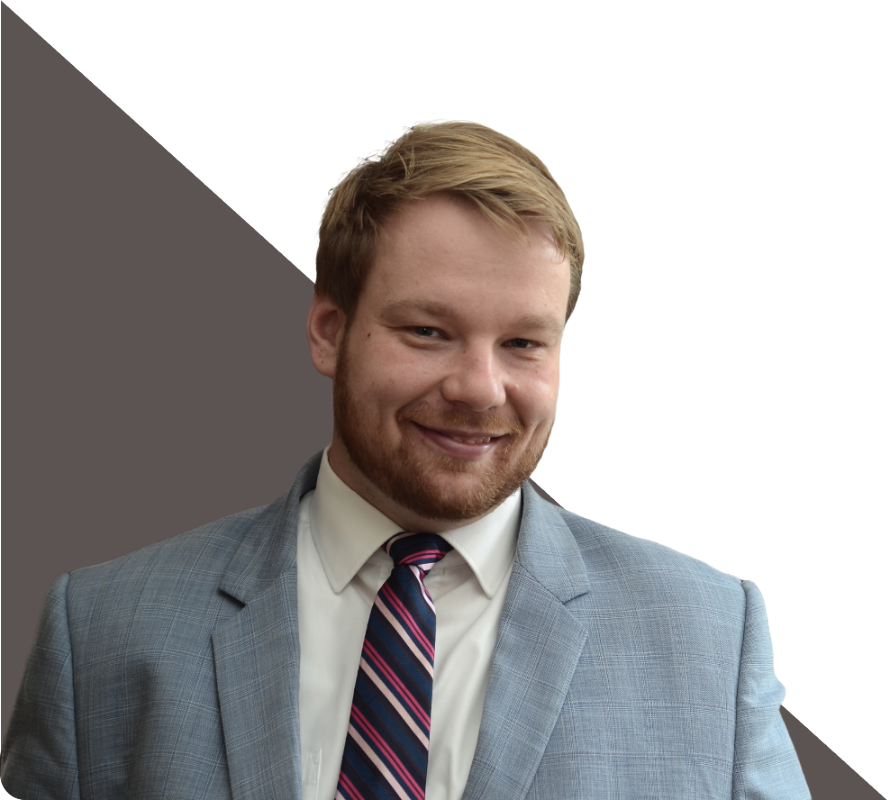
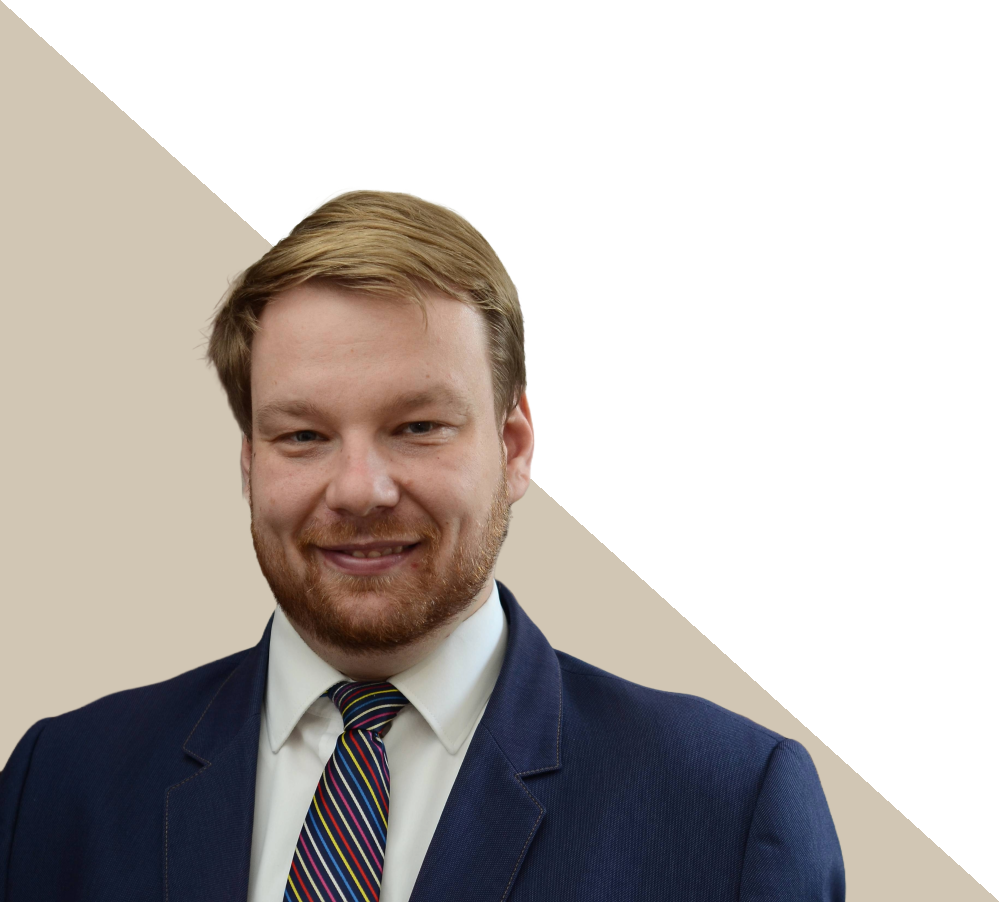
.

diff --git a/style.css b/style.css
@@ -105,6 +105,7 @@ header .logo img {
 .close-nav {
   text-align: right;
   margin-bottom: 20px;
+  margin-top: 20px;
 }
 .close-nav button {
   all: unset;
@@ -190,19 +191,32 @@ header .logo img {
     background-repeat: no-repeat;
     background-position: left bottom;
     background-size: 50%;
-    /*-webkit-box-shadow: 10px 10px 31px 0px rgba(0,0,0,0.75); 
--moz-box-shadow: 10px 10px 31px 0px rgba(0,0,0,0.75);*/
+    -webkit-box-shadow: 10px 10px 31px 0px rgba(0,0,0,0.75); 
+-moz-box-shadow: 10px 10px 31px 0px rgba(0,0,0,0.75);
 box-shadow: 10px 10px 40px 10px rgba(0,0,0,0.75);
 }
 
 
 @media (max-width: 1000px) {
 .header{
-  background-size: 100%;
-}
+  background-size: 70%;
+  align-items: center;
+  justify-content: flex-start;
+  height: 60vh;
 }
 
-@media (max-width: 600px;) {
+.header > img{
+  width: 100%;;
+
+}
+main{
+  margin: 0;
+}
+
+
+}
+
+@media (max-width: 600px) {
   .header{
     height: 600px;
   }
@@ -250,6 +264,33 @@ footer {
     align-items: center;
     flex-wrap: wrap;
 }
+
+@media (max-width: 600px) {
+  footer{
+    display: block;
+    padding-left: 50px;
+  }
+
+  footer .material-symbols-outlined{
+    display: none;
+  }
+
+  .footer--contact a{
+   line-height: 30px !important; 
+  }
+
+  .footer--contact{
+    padding-top: 30px;
+  }
+  footer ul a{
+    line-height: 30px !important;
+  }
+
+  .footer--menu{
+    padding-top: 20px;
+  }
+}
+
 .footer--copyright{
   background-color: var(--main);
   width: 100%;
@@ -264,6 +305,7 @@ footer ul a{
   text-transform: uppercase;
   cursor: pointer;
   text-decoration: none;
+  line-height: 50px;
 }
 footer ul a:hover{
   color: var(--secondary);
@@ -293,10 +335,6 @@ footer ul a:hover{
 }
 
 
-.footer--menu{
-  line-height: 30px;
-}
-
 .footer--menu ul{
   list-style-type: none;
 }
@@ -310,7 +348,7 @@ footer ul a:hover{
   .kdo_jsem{
     margin-top: 100px;
     display: flex;
-    flex-wrap: wrap;
+    flex-wrap: nowrap;
     justify-content: space-between;
   }
 
@@ -318,13 +356,33 @@ footer ul a:hover{
     font-size: var(--font-size);
     line-height: 150%;
     color: var(--text-dark);
-    width: 650px;
+    width: 48%;
   }
 
   .kdo_jsem > img{
-    width: 600px;
+    width: 48%;
+    height: auto;
+    object-fit: cover;
     border-radius: var(--border);
   }
+
+  @media screen and (max-width: 930px) {
+    .kdo_jsem{
+      flex-wrap: wrap;
+    }
+    .kdo_jsem--content{
+      width: 100%;
+    }
+
+    .kdo_jsem > img{
+      margin-top: 50px;
+      width: 100%;
+    }
+  
+    
+  }
+  
+
 
   .cisla_container{
     background-color: var(--main);
@@ -342,7 +400,6 @@ box-shadow: 10px 10px 31px 0px rgba(0,0,0,0.75);
   }
 
   .cisla{
-    width: 200px;
     height: 200px;
     display: inline;
     text-align: center;
@@ -397,11 +454,16 @@ box-shadow: 10px 10px 31px 0px rgba(0,0,0,0.75);
 }
 
 
-@media screen and (max-width: 1500px) {
+@media screen and (max-width: 1300px) {
   main {
     margin: 42px;
   }
+  .map_embed{
+    height: 400px;
+  }
+  
 }
+
 
 
 
@@ -448,6 +510,10 @@ box-shadow: 10px 10px 31px 0px rgba(0,0,0,0.75);
   background-size: 100%;
 }
 
+.sluzby__item--header {
+  text-align: center;
+}
+
 
 
 @media (min-width: 768px) {
@@ -459,7 +525,7 @@ box-shadow: 10px 10px 31px 0px rgba(0,0,0,0.75);
       max-width: 1000px;
       margin-left: auto;
       margin-right: auto;
-      text-align: center;
+      
       grid-column-start: 1;
       grid-column-end: 3;
       font-size: var(--font-size);
@@ -491,6 +557,7 @@ box-shadow: 10px 10px 31px 0px rgba(0,0,0,0.75);
       flex-direction: column;
       flex: 1;
   }
+  
 }
 
 .dekujeme {
@@ -548,9 +615,10 @@ box-shadow: 10px 10px 31px 0px rgba(0,0,0,0.75);
 }
 
 .contact-form-container{
-  margin: 150px 0px 150px 0px;
+  margin: 0px 0px 150px 0px;
   display: flex;
   justify-content: space-around;
+  flex-wrap: wrap;
 }
 
 
@@ -558,6 +626,18 @@ box-shadow: 10px 10px 31px 0px rgba(0,0,0,0.75);
   text-align: left;
   margin-bottom: 50px;
 }
+
+
+@media (min-width: 1025px) { 
+  .contact-form-container{
+    margin: 150px 0px 150px 0px;
+  }
+
+  .contact-form{
+    margin-top: 0px;
+  }
+}
+
 
 
 
@@ -569,6 +649,7 @@ box-shadow: 10px 10px 31px 0px rgba(0,0,0,0.75);
   box-shadow: 0 0 10px rgba(0, 0, 0, 0.1);
   width: 400px; 
   text-align: center;
+  margin-top: 50px;
 }
 
 .contact-form h2 {
@@ -601,4 +682,13 @@ box-shadow: 10px 10px 31px 0px rgba(0,0,0,0.75);
   border: 1px solid #ccc;
   font-size: 1em;
   resize: none;
+}
+
+
+.map_embed{
+  width: 80%;
+  height: 600px;
+  border: none;
+  margin-top: 100px;
+  box-shadow: none;
 }

diff --git a/kontakt.html b/kontakt.html
@@ -1,5 +1,5 @@
 <!DOCTYPE html>
-<html lang="en">
+<html lang="cz">
 <head>
     <meta charset="UTF-8">
     <meta name="viewport" content="width=device-width, initial-scale=1.0">
@@ -71,15 +71,15 @@
         <div class="contact-form-container">
         <div class="contact">
             <h1>Kontakt</h1>
-            <a href="https://www.google.com/maps/search/?api=1&query=Z%C3%A1meck%C3%A1%2054/21%20(1.%20p),%C4%8Cesk%C3%A1%20L%C3%ADpa,47001"><span class="material-symbols-outlined">
+            <a href="tel:+420777628420"><span class="material-symbols-outlined">
                 call
                 </span>777 628 420</a>
-            <a href="https://www.google.com/maps/search/?api=1&query=Z%C3%A1meck%C3%A1%2054/21%20(1.%20p),%C4%8Cesk%C3%A1%20L%C3%ADpa,47001"><span class="material-symbols-outlined">
+            <a href="mailto:lukas.patrman@partners.cz"><span class="material-symbols-outlined">
                 mail
                 </span>lukas.patrman@partners.cz</a>
             <a href="https://www.google.com/maps/search/?api=1&query=Z%C3%A1meck%C3%A1%2054/21%20(1.%20p),%C4%8Cesk%C3%A1%20L%C3%ADpa,47001"><span class="material-symbols-outlined">
                 location_on
-                </span>Zámecká 54/21 (1. p), Česká Lípa 47001</a>
+                </span>Zámecká 54/21, Česká Lípa 47001</a>
         </div>
 
     
@@ -98,6 +98,14 @@
               <button type="button" class="button button--light">Odeslat</button>
             </form>
           </div>
+
+          <iframe class="map_embed"
+src="https://www.google.com/maps/embed?pb=!1m18!1m12!1m3!1d2527.889558001554!2d14.538974200000002!3d50.684875!2m3!1f0!2f0!3f0!3m2!1i1024!2i768!4f13.1!3m3!1m2!1s0x47096954dd55fd57%3A0x2986411ed0db886e!2zWsOhbWVja8OhIDU0LzIxLCA0NzAgMDEgxIxlc2vDoSBMw61wYSAx!5e0!3m2!1sen!2scz!4v1723479993945!5m2!1sen!2scz"
+allowfullscreen="" loading="lazy"
+referrerpolicy="no-referrer-when-downgrade">
+
+</iframe>
+          
     </div>
     <script>
         document.getElementById('contact-form').addEventListener('submit', function(event) {
@@ -118,20 +126,25 @@
         });
     </script>
 
+
+
     </main>
 
     <footer class="footer">
         <div class="contact footer--contact">
-            <a href="https://www.google.com/maps/search/?api=1&query=Z%C3%A1meck%C3%A1%2054/21%20(1.%20p),%C4%8Cesk%C3%A1%20L%C3%ADpa,47001"><span class="material-symbols-outlined">
+            <a href="tel:+420777628420"><span class="material-symbols-outlined">
                 call
                 </span>777 628 420</a>
-            <a href="https://www.google.com/maps/search/?api=1&query=Z%C3%A1meck%C3%A1%2054/21%20(1.%20p),%C4%8Cesk%C3%A1%20L%C3%ADpa,47001"><span class="material-symbols-outlined">
+            <a href="mailto:lukas.patrman@partners.cz"><span class="material-symbols-outlined">
                 mail
                 </span>lukas.patrman@partners.cz</a>
             <a href="https://www.google.com/maps/search/?api=1&query=Z%C3%A1meck%C3%A1%2054/21%20(1.%20p),%C4%8Cesk%C3%A1%20L%C3%ADpa,47001"><span class="material-symbols-outlined">
                 location_on
                 </span>Zámecká 54/21 (1. p), Česká Lípa 47001</a>
         </div>
+
+        
+
         <div class="footer--menu">
             <nav>
                 <ul>

diff --git a/index.html b/index.html
@@ -1,5 +1,5 @@
 <!DOCTYPE html>
-<html lang="en">
+<html lang="cz">
 <head>
     <meta charset="UTF-8">
     <meta name="viewport" content="width=device-width, initial-scale=1.0">
@@ -77,7 +77,7 @@
             <p>Lorem ipsum dolor sit amet, consectetur adipiscing elit, sed do eiusmod tempor incididunt ut labore et dolore magna aliqua. Ut enim ad minim veniam, quis nostrud exercitation ullamco laboris nisi ut aliquip ex ea commodo consequat. Duis aute irure dolor in reprehenderit in voluptate velit esse cillum dolore eu fugiat nulla pariatur. Excepteur sint occaecat cupidatat non proident, sunt in culpa qui officia deserunt mollit anim id est laborum.Lorem ipsum dolor sit amet, consectetur adipiscing elit, sed do eiusmod tempor incididunt ut labore et dolore magna aliqua.</p>
         </div>
 
-        <img src="./images/DSC_3815.JPG" alt="Lůkáš Patrman">
+        <img src="./images/DSC_3816.JPG" alt="Lůkáš Patrman">
         </section>
 
         <div class="cisla_container">
@@ -152,7 +152,7 @@
 
         <div class="video">
             <iframe width="960" height="540"
-                    src="https://www.youtube.com/embed/tgbNymZ7vqY">
+            src="https://www.youtube.com/embed/dQw4w9WgXcQ">
             </iframe>
         </div>
 
@@ -162,7 +162,7 @@
                 <p>Lorem ipsum dolor sit amet, consectetur adipiscing elit, sed do eiusmod tempor incididunt ut labore et dolore magna aliqua. Ut enim ad minim veniam, quis nostrud exercitation ullamco laboris nisi ut aliquip ex ea commodo consequat. Duis aute irure dolor in reprehenderit in voluptate velit esse cillum dolore eu fugiat nulla pariatur. Excepteur sint occaecat cupidatat non proident, sunt in culpa qui officia deserunt mollit anim id est laborum.Lorem ipsum dolor sit amet, consectetur adipiscing elit, sed do eiusmod tempor incididunt ut labore et dolore magna aliqua.</p>
             </div>
     
-            <img src="./images/DSC_3779.JPG" alt="Lůkáš Patrman">
+            <img src="./images/DSC_3779.JPG" alt="asistentka">
          </section>
 
     </main>

diff --git a/dekujeme.html b/dekujeme.html
@@ -1,5 +1,5 @@
 <!DOCTYPE html>
-<html lang="en">
+<html lang="cz">
 <head>
     <meta charset="UTF-8">
     <meta name="viewport" content="width=device-width, initial-scale=1.0">

diff --git a/sluzby.html b/sluzby.html
@@ -1,5 +1,5 @@
 <!DOCTYPE html>
-<html lang="en">
+<html lang="cz">
 <head>
     <meta charset="UTF-8">
     <meta name="viewport" content="width=device-width, initial-scale=1.0">
